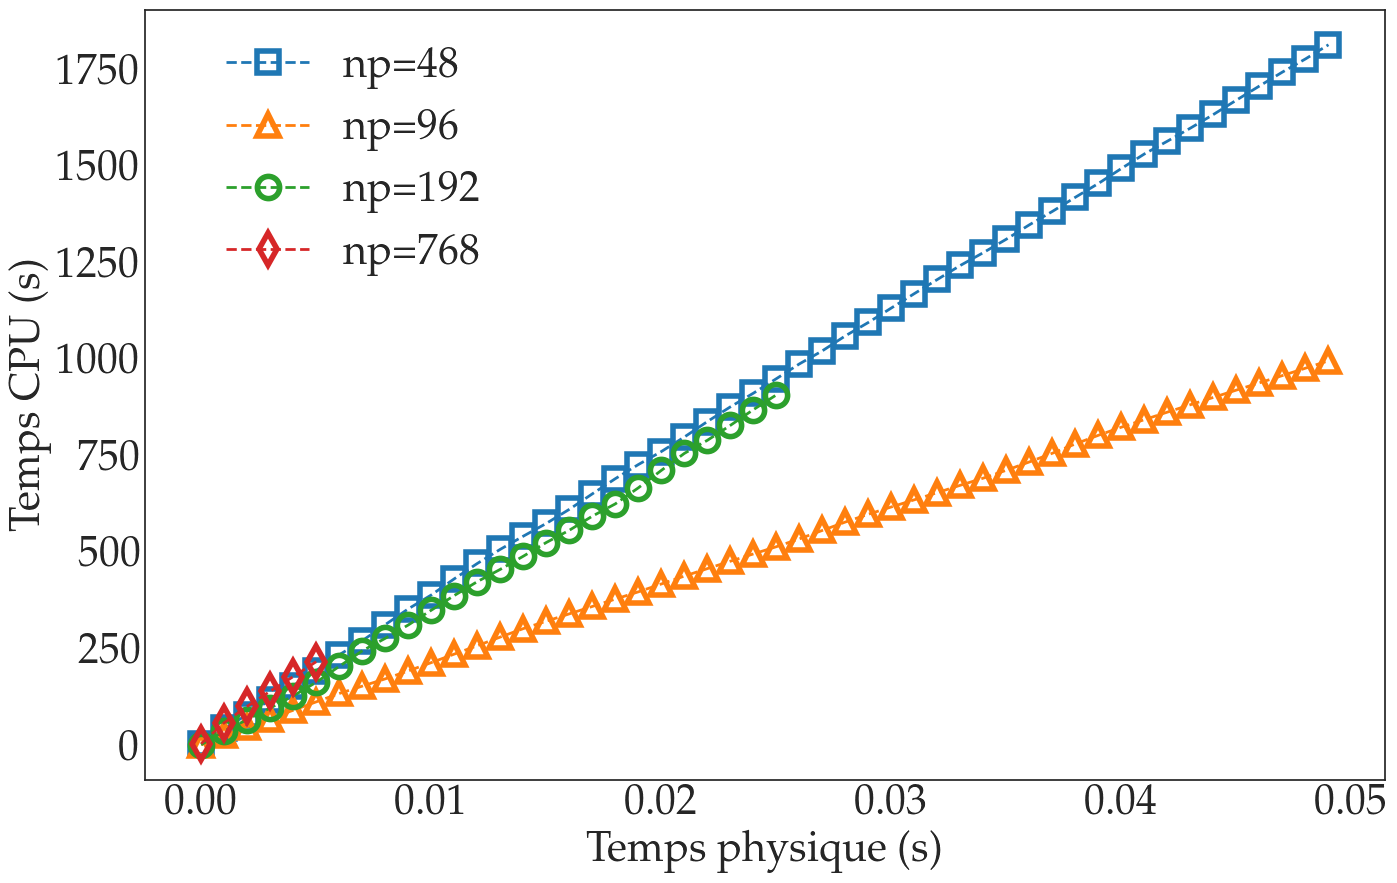
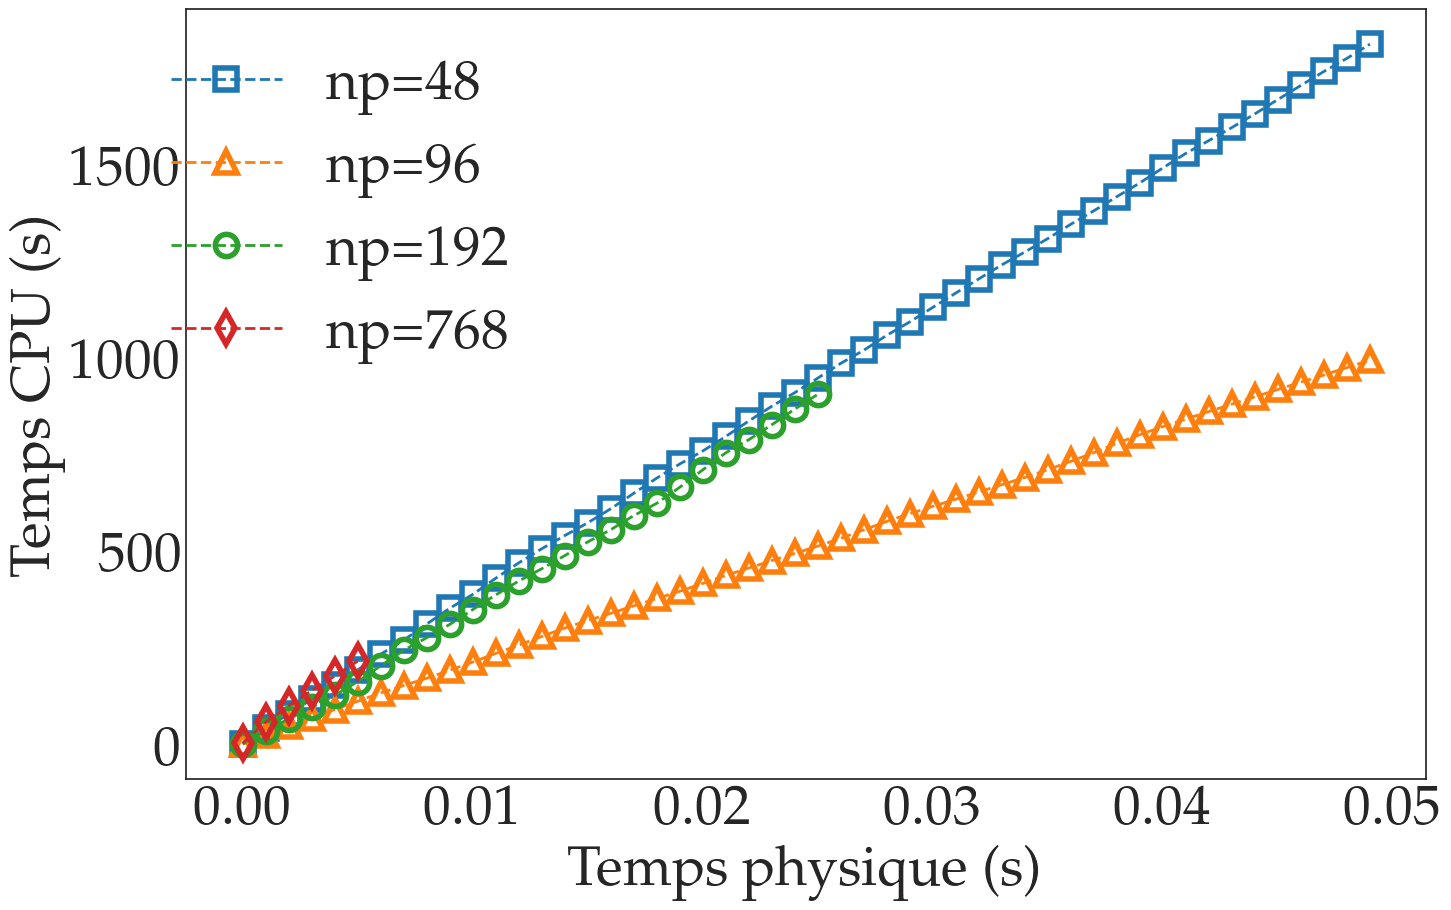
update

diff --git a/userScalability/occigen.py b/userScalability/occigen.py
@@ -5,7 +5,7 @@ import matplotlib.pyplot as plt
 import numpy as np
 
 plt.style.use('seaborn-white') # from defaut
-plt.rcParams.update({'font.size': 30})
+plt.rcParams.update({'font.size': 40})
 plt.rcParams['savefig.dpi'] = 100
 
 from matplotlib import rc
